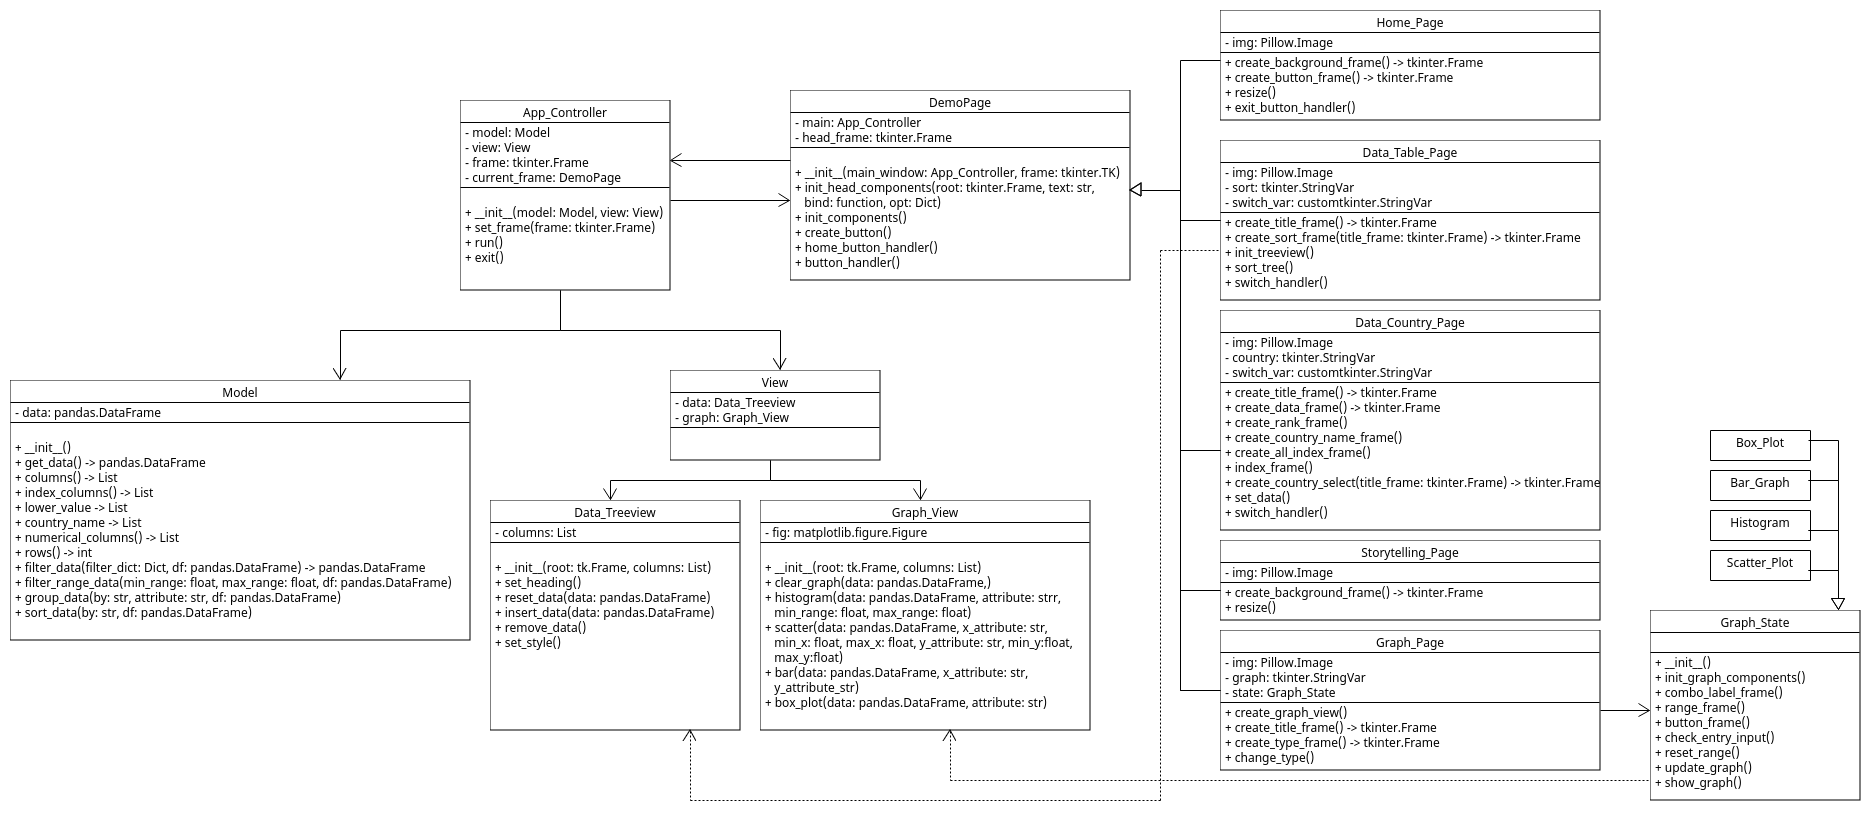
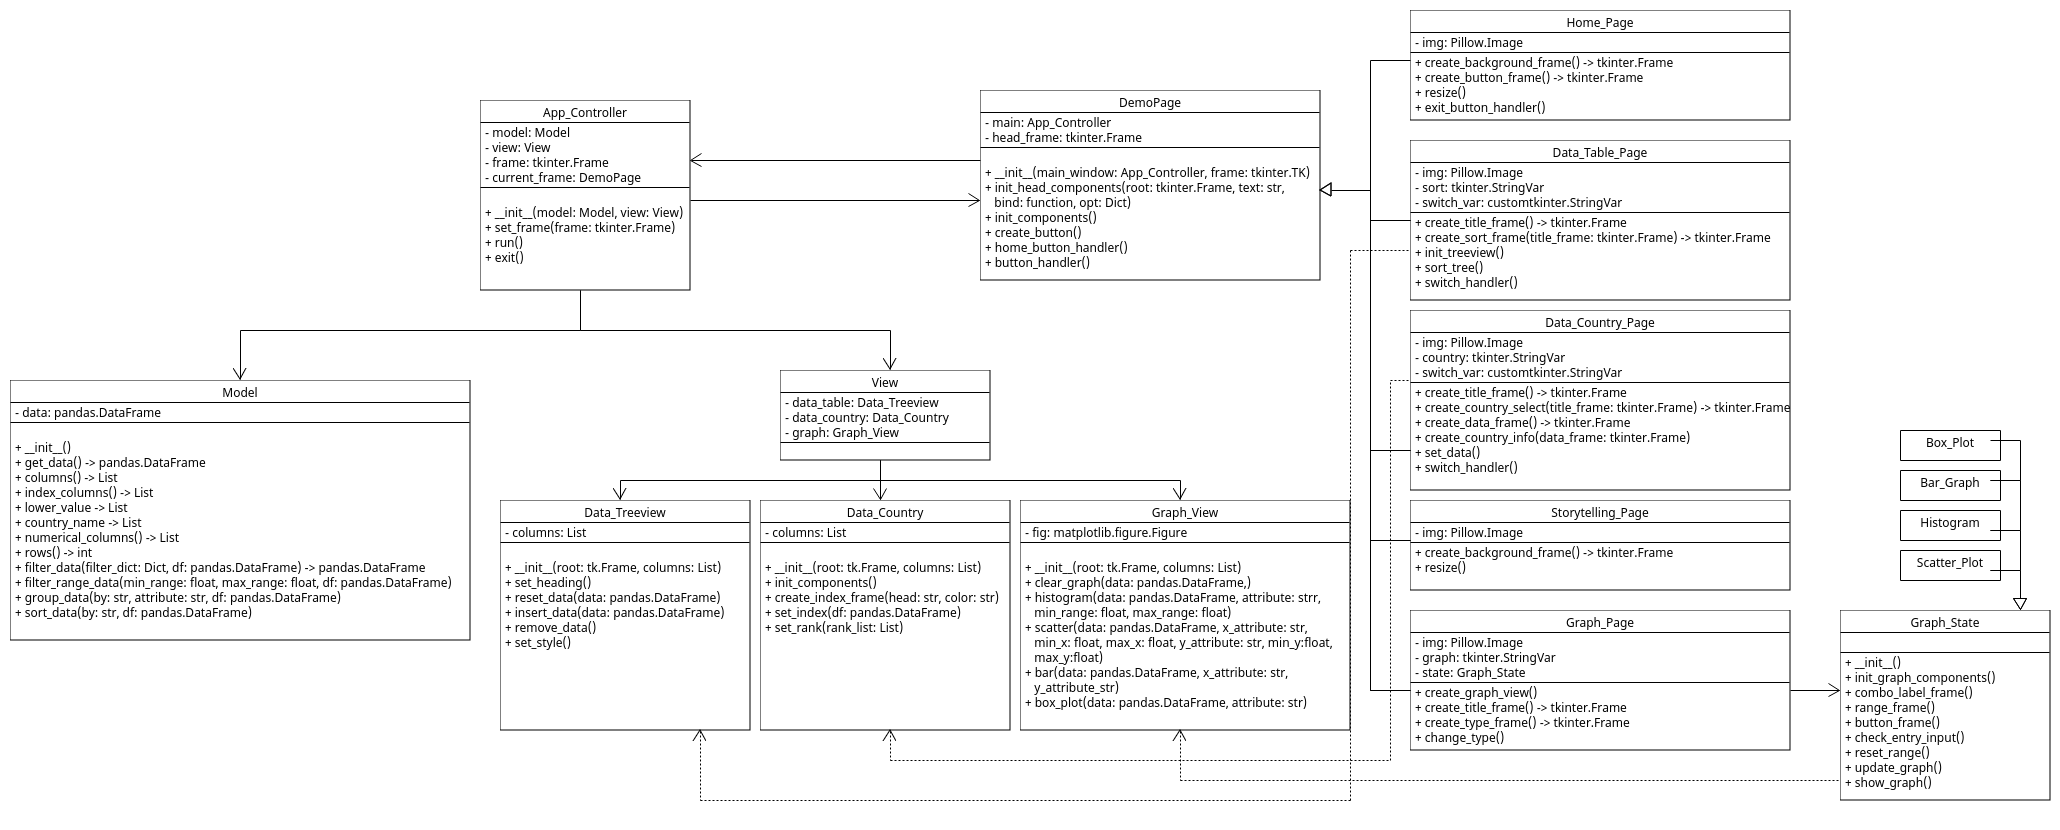
Rewrite the country data part, create new view class for manage it

diff --git a/app_controller.py b/app_controller.py
@@ -15,17 +15,19 @@ class App_Controller(tk.Tk):
         self.title('Quality of Life')
         self.model = model
         self.view = view
-        self.frame = tk.Frame(self)
+        self.frame = tk.Frame(self)  # root frame for packing frame page in it
         self.frame.pack(expand=True, fill=tk.BOTH)
         self.current_frame = None
         self.set_frame(Home_Page)
 
     def set_frame(self, frame):
-        """Change page to the select frame"""
-        if self.current_frame:
+        """Change page to the select frame
+        :param frame: class of the page to set in the window
+        """
+        if self.current_frame:  # destroy the last page
             self.current_frame.destroy()
-        self.current_frame = frame(self, self.frame)
-        self.current_frame.pack(expand=True, fill=tk.BOTH)
+        self.current_frame = frame(self, self.frame)  # create new frame page from the given page class
+        self.current_frame.pack(expand=True, fill=tk.BOTH)  # pack it in the window
 
     def run(self):
         """Run the App"""
@@ -66,7 +68,7 @@ class DemoPage(tk.Frame):
         """Set the page to Home page"""
         self.main.set_frame(Home_Page)
 
-    def button_handler(self, event, *args):
+    def button_handler(self, event):
         """Set page from button"""
         frame_dict = {'Quality of Life Data': Data_Table_Page, 'Data Storytelling': Storytelling_Page,
                       'Create Graph': Graph_Page, 'Storytelling': Storytelling_Page}
@@ -158,7 +160,7 @@ class Data_Table_Page(DemoPage):
         super().__init__(main_window, frame)
         self.img = Image.open('background//qol_title.png')
         self.sort = tk.StringVar()  # variable for sorting the data
-        self.switch_var = ctk.StringVar(value="off")  # data form switch variable
+        self.form_var = ctk.StringVar(value="off")  # data form switch variable
         self.init_components()
 
     def init_head_components(self):
@@ -193,17 +195,13 @@ class Data_Table_Page(DemoPage):
         sort_frame.pack(side=tk.LEFT, pady=20, fill=tk.BOTH, expand=True, anchor=tk.NW)
 
         table = tk.Label(frame, text='table', borderwidth=0, font=("Ariel", 12), bg='#f8f5ef')
-        form_switch = ctk.CTkSwitch(frame, text="country", command=self.switch_handler, variable=self.switch_var,
+        form_switch = ctk.CTkSwitch(frame, text="country", command=self.switch_handler, variable=self.form_var,
                                     onvalue="on", offvalue="off", switch_width=100, switch_height=25,
                                     fg_color="#76b9ff", progress_color="#76b9ff", font=("Ariel", 16),)
         form_switch.pack(side=tk.RIGHT, pady=10, padx=20)
         table.pack(side=tk.RIGHT, pady=10)
 
         return frame
-
-    def switch_handler(self, *args):
-        """Change to Data Country Page"""
-        self.main.set_frame(Data_Country_Page)
 
     def create_sort_frame(self, title_frame):
         """Create and Return the sort frame, contain the label and combobox for sorting attribute"""
@@ -234,7 +232,7 @@ class Data_Table_Page(DemoPage):
         columns.remove('Population')
         columns.remove('Area')
         columns.remove('Density')
-        self.tree = self.main.view.data(frame, columns)
+        self.tree = self.main.view.data_tree(frame, columns)
         self.tree.pack(expand=True, fill=tk.BOTH, padx=80, pady=40)
         return frame
 
@@ -250,6 +248,10 @@ class Data_Table_Page(DemoPage):
             info = '(Lower is Better)'
         self.info_label.config(text=info)
 
+    def switch_handler(self, *args):
+        """Change to Data Country Page"""
+        self.main.set_frame(Data_Country_Page)
+
 
 class Data_Country_Page(DemoPage):
     """Page showing the quality of life data in country form"""
@@ -258,7 +260,8 @@ class Data_Country_Page(DemoPage):
         super().__init__(main_window, frame)
         self.img = Image.open('background//qol_title.png')
         self.country = tk.StringVar()  # country attribute to filter the data
-        self.switch_var = ctk.StringVar(value="on")  # data form switch variable
+        self.form_var = ctk.StringVar(value="off")  # data form switch variable
+        self.index_var = ctk.StringVar(value="off")  # index form switch variable
         self.init_components()
 
     def init_head_components(self):
@@ -278,6 +281,8 @@ class Data_Country_Page(DemoPage):
         title_frame.pack(side=tk.TOP, expand=False, fill=tk.X, anchor=tk.N)
         self.data_frame = self.create_data_frame()
         self.data_frame.pack(side=tk.TOP, expand=True, fill=tk.BOTH)
+        self.index_var.set("index")
+        self.set_data()
 
     def create_title_frame(self):
         """Create and Return the title frame contain title, part for country attribute, switch data form"""
@@ -291,58 +296,12 @@ class Data_Country_Page(DemoPage):
         country_frame.pack(side=tk.LEFT, pady=20, fill=tk.BOTH, expand=True, anchor=tk.NW)
 
         table = tk.Label(frame, text='table', borderwidth=0, font=("Ariel", 12), bg='#f8f5ef')
-        form_switch = ctk.CTkSwitch(frame, text="country", command=self.switch_handler, variable=self.switch_var,
+        form_switch = ctk.CTkSwitch(frame, text="country", command=self.switch_handler, variable=self.form_var,
                                     onvalue="on", offvalue="off", switch_width=100, switch_height=25,
                                     fg_color="#338be6", progress_color="#338be6", font=("Ariel", 16),)
         form_switch.pack(side=tk.RIGHT, pady=10, padx=20)
         table.pack(side=tk.RIGHT, pady=10)
         return frame
-
-    def switch_handler(self, *args):
-        """Change to Data Table page"""
-        self.main.set_frame(Data_Table_Page)
-
-    def create_data_frame(self, *args):
-        """Create and return frame, contain info and index of the country"""
-        self.select_country.selection_clear()
-        country = self.country.get()
-        country_data = self.main.model.filter_data({'Country': country})
-        country_data_frame = tk.Frame(self, bg='#f8f5ef')
-
-        self.create_country_info(country_data_frame, country, country_data)
-
-        columns = self.main.model.index_columns()[1:]
-        colors = ['#ff5b6e', '#f46d43', '#fdae61', '#c6e792', '#e6f598', '#ffffbf', '#abdda4', '#66c2a5', '#3288bd']
-        self.create_all_index_frame(country_data_frame, country_data, columns, colors)
-        country_data_frame.columnconfigure(0, weight=1)
-        country_data_frame.columnconfigure(1, weight=1)
-        country_data_frame.rowconfigure(0, weight=1)
-        return country_data_frame
-
-    def create_country_info(self, country_frame, country, country_data):
-        """Create frame contain info of the country in data frame"""
-        frame = tk.Frame(country_frame, bg='#f8f5ef', borderwidth=2, relief='solid')
-        title_frame = self.create_country_name_frame(frame, country, list(country_data["Continent"])[0])
-        title_frame.pack(side=tk.TOP, pady=20, padx=20, expand=True, fill=tk.BOTH)
-
-        middle_frame = tk.Frame(frame, bg='#f8f5ef')
-        middle_opt = {'font': ('Ariel', 20), 'anchor': tk.W, 'bg': '#f8f5ef'}
-        middle_pack = {'side': tk.TOP, 'padx': 5, 'pady': 10, 'anchor': tk.NW, 'fill': tk.X}
-        area = tk.Label(middle_frame, text=f'Area: {list(country_data["Area"])[0]:,} kilometer per square',
-                        **middle_opt)
-        pop = tk.Label(middle_frame, text=f'Population: {list(country_data["Population"])[0]:,}', **middle_opt)
-        dens = tk.Label(middle_frame, text=f'Population Density: {list(country_data["Density"])[0]} per square '
-                                           f'kilometer', **middle_opt)
-        area.pack(**middle_pack)
-        pop.pack(**middle_pack)
-        dens.pack(**middle_pack)
-
-        middle_frame.pack(side=tk.TOP, pady=20, padx=20,  expand=True, fill=tk.BOTH)
-
-        last_frame = self.create_rank_frame(frame, country_data)
-        last_frame.pack(side=tk.TOP, fill=tk.X)
-
-        frame.grid(row=0, column=0, sticky=tk.NSEW, padx=50, pady=50)
 
     def create_country_select(self, title_frame):
         """Create and return the frame contain part for select the country"""
@@ -360,58 +319,89 @@ class Data_Country_Page(DemoPage):
         self.select_country.pack(**pack_opt)
         return frame
 
-    def create_rank_frame(self, country_frame, data):
-        """Create and return frame contain quality of life index and rank of the country"""
-        frame = tk.Frame(country_frame, height=30, bg='#f8f5ef')
-        qol = tk.Label(frame, text=f'Quality of Life Index {list(data["Quality of Life Index"])[0]}',
-                       font=('Ariel', 30), borderwidth=1, relief='solid', bg='#fac0d6')
-        rank = tk.Label(frame, text=f'Rank {list(data["Rank"])[0]}', font=('Ariel', 40), borderwidth=1, relief='solid',
-                        bg='#fac0d6')
+    def create_data_frame(self):
+        """Create and return frame, contain info and index of the country"""
+        country_data_frame = tk.Frame(self, bg='#f8f5ef')
+        self.create_country_info(country_data_frame)
 
-        rank.pack(side=tk.LEFT, fill=tk.BOTH, expand=True)
-        qol.pack(side=tk.LEFT, fill=tk.BOTH, expand=True)
-        return frame
+        columns = self.main.model.index_columns()[1:]
+        self.index_frame = self.main.view.data_country(country_data_frame, columns)
+        self.index_frame.grid(row=0, column=1, sticky=tk.NSEW, padx=50, pady=50)
 
-    def create_all_index_frame(self, country_frame, data, column, color):
-        """Create frame contain all index in data frame"""
-        frame = tk.Frame(country_frame, bg='#f8f5ef')
-        for h in range(9):
-            label = self.index_frame(frame, column[h], list(data[column[h]])[0], color[h])
-            label.grid(row=h//3, column=h % 3, sticky=tk.NSEW, padx=3, pady=3)
+        country_data_frame.columnconfigure(0, weight=1)
+        country_data_frame.columnconfigure(1, weight=1)
+        country_data_frame.rowconfigure(0, weight=1)
+        return country_data_frame
 
-        for i in range(3):
-            frame.rowconfigure(i, weight=1)
-            frame.columnconfigure(i, weight=1)
+    def create_country_info(self, data_frame):
+        """Create frame contain info of the country in data frame"""
+        frame = tk.Frame(data_frame, bg='#f8f5ef', borderwidth=2, relief='solid')
+        title_frame = tk.Frame(frame, bg='#f8f5ef')
+        self.country_name = tk.Label(title_frame, text=' ', font=('Ariel', 40), bg='#f8f5ef')
+        self.continent = tk.Label(title_frame, text='( )', font=('Ariel', 20), bg='#f8f5ef')
+        form_switch = ctk.CTkSwitch(title_frame, text="rank", command=self.set_data, variable=self.index_var,
+                                    onvalue="rank", offvalue="index", switch_width=100, switch_height=25,
+                                    fg_color="#a6a6a6", progress_color="#f8cc69", font=("Ariel", 16))
+        form_switch.pack(side=tk.RIGHT)
+        self.country_name.pack(side=tk.LEFT)
+        self.continent.pack(side=tk.LEFT, padx=40)
+        title_frame.pack(side=tk.TOP, pady=20, padx=20, expand=True, fill=tk.BOTH)
 
-        frame.grid(row=0, column=1, sticky=tk.NSEW, padx=20, pady=50)
+        middle_frame = tk.Frame(frame, bg='#f8f5ef')
+        middle_opt = {'font': ('Ariel', 20), 'anchor': tk.W, 'bg': '#f8f5ef'}
+        middle_pack = {'side': tk.TOP, 'padx': 5, 'pady': 10, 'anchor': tk.NW, 'fill': tk.X}
+        self.area = tk.Label(middle_frame, text=f' ', **middle_opt)
+        self.pop = tk.Label(middle_frame, text=' ', **middle_opt)
+        self.dens = tk.Label(middle_frame, text=' ', **middle_opt)
+        self.area.pack(**middle_pack)
+        self.pop.pack(**middle_pack)
+        self.dens.pack(**middle_pack)
+        middle_frame.pack(side=tk.TOP, pady=20, padx=20,  expand=True, fill=tk.BOTH)
 
-    def index_frame(self, all_frame, head, info, color):
-        """Create and return index frame contain head and value for each index"""
-        size = 17
-        if len(head) > 20:
-            size = 12
-        frame = tk.Frame(all_frame, bg=color, borderwidth=2, relief='solid')
-        label_head = tk.Label(frame, text=head, font=('Ariel', size), bg=color)
-        label_info = tk.Label(frame, text=info, font=('Ariel', 35), bg=color)
-        label_head.pack(side=tk.TOP, expand=True)
-        label_info.pack(side=tk.TOP, expand=True)
-        return frame
+        last_frame = tk.Frame(frame, height=30, bg='#f8f5ef')
+        self.qol = tk.Label(frame, text=f' ', font=('Ariel', 30), borderwidth=1, relief='solid', bg='#fffe77')
+        self.rank = tk.Label(frame, text=f' ', font=('Ariel', 40), borderwidth=1, relief='solid', bg='#fffe77')
+        self.rank.pack(side=tk.LEFT, fill=tk.BOTH, expand=True)
+        self.qol.pack(side=tk.LEFT, fill=tk.BOTH, expand=True)
+        last_frame.pack(side=tk.TOP, fill=tk.X)
 
-    def create_country_name_frame(self, data_frame, country, continent):
-        """Create and return the frame contain name and continent of the country"""
-        frame = tk.Frame(data_frame, bg='#f8f5ef')
-        country = tk.Label(frame, text=country, font=('Ariel', 40), bg='#f8f5ef')
-        continent = tk.Label(frame, text=f'({continent})', font=('Ariel', 20), bg='#f8f5ef')
-        country.pack(side=tk.LEFT)
-        continent.pack(side=tk.LEFT, padx=40)
-        return frame
+        frame.grid(row=0, column=0, sticky=tk.NSEW, padx=50, pady=50)
 
-    def set_data(self, event, *args):
+    def switch_handler(self, *args):
+        """Change to Data Table page"""
+        self.main.set_frame(Data_Table_Page)
+
+    def set_data(self, event=None):
         """Change all data to the selected country"""
-        event.widget.selection_clear()
-        self.data_frame.destroy()
-        self.data_frame = self.create_data_frame()
-        self.data_frame.pack(side=tk.TOP, expand=True, fill=tk.BOTH)
+        if event:
+            event.widget.selection_clear()
+        country = self.country.get()
+        country_data = self.main.model.filter_data({'Country': country})
+        # reset name and continent of the country
+        self.country_name.config(text=country)
+        self.continent.config(text=f'({list(country_data["Continent"])[0]})')
+        # reset area, population and density
+        self.area.config(text=f'Area: {list(country_data["Area"])[0]:,} kilometer per square')
+        self.pop.config(text=f'Population: {list(country_data["Population"])[0]:,}')
+        self.dens.config(text=f'Population Density: {list(country_data["Density"])[0]} per square kilometer')
+        # reset quality of life and rank
+        self.qol.config(text=f'Quality of Life Index {list(country_data["Quality of Life Index"])[0]}')
+        self.rank.config(text=f'Rank {list(country_data["Rank"])[0]}')
+        # reset index frame
+        if self.index_var.get() == "rank":
+            rank_list = self.country_rank_list(country)
+            self.index_frame.set_rank(rank_list)
+        else:
+            self.index_frame.set_index(country_data)
+
+    def country_rank_list(self, country):
+        columns = self.main.model.index_columns()[1:]
+        rank_list = []
+        for col in columns:
+            sort_data = self.main.model.sort_data(col)
+            country_data = self.main.model.filter_data({'Country': country}, sort_data)
+            rank_list.append(country_data.index[0]+1)
+        return rank_list
 
 
 class Storytelling_Page(DemoPage):

diff --git a/view.py b/view.py
@@ -8,7 +8,8 @@ from matplotlib.backends.backend_tkagg import FigureCanvasTkAgg
 class View:
     """View Class for output section in Quality of Life App"""
     def __init__(self):
-        self.data = Data_Treeview
+        self.data_tree = Data_Treeview
+        self.data_country = Data_Country
         self.graph = Graph_View
 
 
@@ -57,6 +58,49 @@ class Data_Treeview(ttk.Treeview):
         style.configure('Treeview.Heading', background="#76b9ff")
         style.configure('Treeview', rowheight=30)
         style.configure("Treeview", borderwidth=1, relief="solid")
+
+
+class Data_Country(tk.Frame):
+    colors = ['#fac0d6', '#f4a9c6', '#f898bd', '#76b9ff', '#5ba8f8', '#519be8', '#fdbc6b', '#f8ac4d', '#eb9e3d']
+
+    def __init__(self, root, columns):
+        super().__init__(root, bg='#f8f5ef')
+        self.columns = columns
+        self.init_components()
+
+    def init_components(self):
+        for h in range(9):
+            label = self.create_index_frame(self.columns[h], self.colors[h])
+            label.grid(row=h//3, column=h % 3, sticky=tk.NSEW, padx=4, pady=4)
+
+        for i in range(3):
+            self.rowconfigure(i, weight=1)
+            self.columnconfigure(i, weight=1)
+
+    def create_index_frame(self, head, color):
+        """Create and return index frame contain head and value label for each index"""
+        size = 17
+        if len(head) > 20:
+            size = 12
+        frame = tk.Frame(self, bg=color, borderwidth=2, relief='solid')
+        label_head = tk.Label(frame, text=head, font=('Ariel', size), bg=color)
+        label_info = tk.Label(frame, text=' ', font=('Ariel', 35), bg=color)
+        label_head.pack(side=tk.TOP, expand=True)
+        label_info.pack(side=tk.TOP, expand=True)
+        return frame
+
+    def set_index(self, df):
+        widget = self.winfo_children()
+        for n in range(9):
+            data = list(df[self.columns[n]])[0]
+            head, info = widget[n].winfo_children()
+            info.config(text=data)
+
+    def set_rank(self, rank_list):
+        widget = self.winfo_children()
+        for n in range(9):
+            head, info = widget[n].winfo_children()
+            info.config(text=rank_list[n])
 
 
 class Graph_View(FigureCanvasTkAgg):

diff --git a/main.py b/main.py
@@ -1,5 +1,5 @@
 """Module for Quality of Life App"""
-from app import App_Controller
+from app_controller import App_Controller
 from model import Model
 from view import View
 
